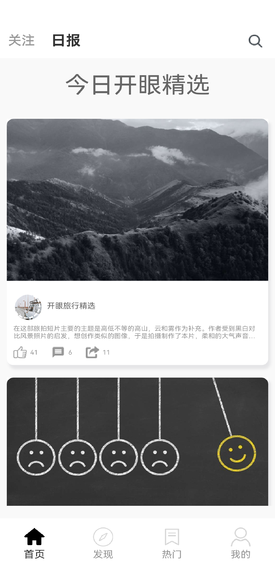
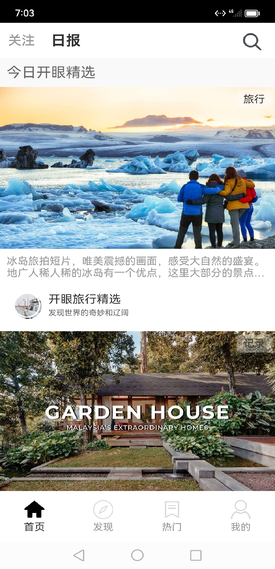
replace screen shot image

diff --git a/entry/src/main/ets/entryability/EntryAbility.ts b/entry/src/main/ets/entryability/EntryAbility.ts
@@ -64,7 +64,7 @@ export default class EntryAbility extends UIAbility {
             });
         })
         // 3.为沉浸式窗口加载对应的目标页面。
-        windowStage.loadContent(RouterPath.MAIN_PAGE, (err) => {
+        windowStage.loadContent(RouterPath.LAUNCHER_PAGE, (err) => {
             if (err.code) {
                 console.error('Failed to load the content. Cause:' + JSON.stringify(err));
                 return;
